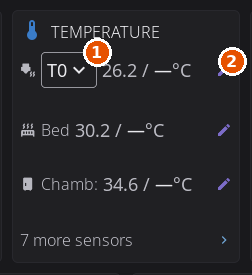
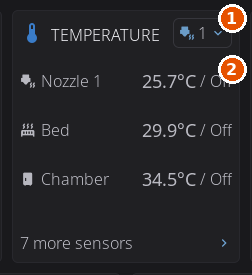
docs: U1 update_manager wording matches the installer; refresh the rc.3 tool-picker screenshots
(cherry picked from commit ab5f8034d12c6981d6fc4e4235dd11f96e77cc35)

diff --git a/docs/devel/printers/SNAPMAKER_U1_SUPPORT.md b/docs/devel/printers/SNAPMAKER_U1_SUPPORT.md
@@ -419,7 +419,7 @@ These are resolution-specific issues, not Snapmaker-specific. Any 480x320 device
 - **Auto-start requires `/oem/.debug`** -- The overlay filesystem is wiped on boot unless `/oem/.debug` exists. This flag must be created once during installation to persist the boot-launcher hook (see [How HelixScreen takes over the display](#how-helixscreen-takes-over-the-display)).
 - **WiFi management** -- Stopping `unisrv` (stock UI) does not affect WiFi — the U1 uses standard `wpa_supplicant` managed by the OS. HelixScreen has its own WiFi manager with `wpa_supplicant` support.
 - **Remote screen ("gui" webcam)** -- Wired up via the U1 platform hook (`assets/config/platform/hooks-snapmaker-u1.sh`): `start_remote_screen` launches the firmware's `fb-http` tool on every HelixScreen start (so it survives the overlay boot-glob trap for free — the hook already runs on every boot), gated on the PAXX `web remote_screen` toggle. **The working path is fbdev + the in-app fb0 mailbox mirror.** Every shipping `fb-http` (on-device build, mainline `paxx12/screen-apps`, and the exact commit the Extended-Firmware submodule pins) reads `/dev/fb0` and exposes only `--port/--bind/--fb/--touch/--html-dir`; **no `fb-http` with a DRM backend exists in any public/shipping source** (verified 2026-07-09). HelixScreen renders into its own DRM dumb buffer and never touches `/dev/fb0`, so on its own the fbdev daemon would serve a stale frame — the hook therefore exports `HELIX_REMOTE_SCREEN_FB0=/dev/fb0` on the fbdev path, and HelixScreen mirrors each rendered frame into `/dev/fb0` (`RemoteScreenManager`/`Fb0MailboxSink`, tapped from the flush hook), so `fb-http`'s snapshot is the live UI. Hardware-verified 2026-07-09: fb0 is decoupled from the DRM scanout (writing to it does not disturb the panel), BGRA maps straight through (plain memcpy), and the served snapshot matched what was written. The hook still **probes** the tool (`_remote_screen_backend_args`) and would prefer a `--backend drm` capture path *if* a DRM-capable `fb-http` ever ships (no mirror needed then) — but that is dormant/forward-looking today. nginx `/screen/` route (`/etc/nginx/fluidd.d/remote-screen.conf`) and the `[webcam gui]` Moonraker slot are provided by the firmware — but the `[webcam gui]` section ships **commented out** in `extended/moonraker/04_remote_screen.cfg`. Setting `web remote_screen` in `extended2.cfg` alone only gates fb-http startup; the firmware-config web UI toggle (/usr/local/share/firmware-config/functions/12_settings_remote_screen.yaml) is what uncomments `[webcam gui]`, sets `enabled: true`, and restarts `S99fb-http` (= HelixScreen, via the hijacked delegate) plus Moonraker. Enabling by hand requires replicating all of that (`extended-config.py add/uncomment/update` + both restarts).
-- **Two benign Moonraker warnings on buildroot** -- After install, Mainsail/Fluidd surface *"Unable to find DBus PolKit Interface"* (Moonraker's always-loaded `machine` component on a no-PolKit OS) and *"Unable to initialize System Update Provider for distribution: buildroot"* (Moonraker's `update_manager` initializes a system/OS package provider by default, which can't detect apt/PackageKit on buildroot). The PolKit one is not ours — it's inherent to Moonraker on buildroot and re-surfaces because our installer restarts Moonraker. The system-update one is triggered by us adding `[update_manager helixscreen]` (loading the component pulls in the default system provider); it can be silenced with a top-level `[update_manager]` / `enable_system_updates: False`, which doesn't affect HelixScreen's own one-click updater. Both are harmless. Same condition applies to K1/K2 (also buildroot).
+- **Two benign Moonraker warnings on buildroot** -- After install, Mainsail/Fluidd surface *"Unable to find DBus PolKit Interface"* (Moonraker's always-loaded `machine` component on a no-PolKit OS) and *"Unable to initialize System Update Provider for distribution: buildroot"* (Moonraker's `update_manager` initializes a system/OS package provider by default, which can't detect apt/PackageKit on buildroot). The PolKit one is not ours — it's inherent to Moonraker on buildroot and re-surfaces because our installer restarts Moonraker. The system-update one appears whenever Moonraker loads the `update_manager` component without `enable_system_updates: False`. Stock U1 Moonraker loads no `update_manager` at all (`/machine/update/status` returns 404), so nothing triggers it until the installer runs. The U1's Moonraker still ships the old zip updater module (no `asset_name` support, #993), so `configure_moonraker_updates` never writes `[update_manager helixscreen]` there: it removes a stale one if present, then `disable_system_updates_on_buildroot` adds a bare `[update_manager]` with `enable_system_updates: False` (stock: creates the section; where one exists, merges the key into it; a PAXX rig ends up with exactly that and no helixscreen section). In-app updates are HelixScreen's own updater. Both are harmless. Same condition applies to K1/K2 (also buildroot).
 
 ## Future Work
 

diff --git a/docs/user/guide/install-u1.md b/docs/user/guide/install-u1.md
@@ -166,7 +166,7 @@ Versions of HelixScreen before 1.0.4 switched off the stock screen on stock firm
 
 - **Any firmware update brings the stock screen back.** Run the installer with `--update` afterwards, as in [Upgrading the printer's firmware](#upgrading-the-printers-firmware-with-helixscreen-installed).
 - **Seeing the screen in Mainsail or Fluidd.** On PAXX firmware, the built-in "gui" webcam shows the live HelixScreen screen, and you can tap it to control the printer. Turn on **Remote Screen** in the firmware settings web page at `http://<printer-ip>/firmware-config/`. Editing the config file by hand is not enough. Setup and troubleshooting: [Supported Printers: Snapmaker U1](supported-printers.md#snapmaker-u1-snapswap).
-- **Two Moonraker warnings you may see.** Mainsail and Fluidd can show "Unable to find DBus PolKit Interface" and "Unable to initialize System Update Provider for distribution: buildroot". Both come from Moonraker looking for an operating-system package manager, which the U1's firmware does not have. PAXX firmware already turns that check off (`enable_system_updates: False` in the `[update_manager]` section of `moonraker.conf`), so they do not appear there. On stock firmware the installer turns the check off, which normally clears them. If they still appear, they are harmless: they do not affect HelixScreen or printing.
+- **Two Moonraker warnings you may see.** Mainsail and Fluidd can show "Unable to find DBus PolKit Interface" and "Unable to initialize System Update Provider for distribution: buildroot". Both come from Moonraker looking for an operating-system package manager, which the U1's firmware does not have. PAXX firmware already turns that check off (`enable_system_updates: False` in the `[update_manager]` section of `moonraker.conf`), so they do not appear there. Stock firmware's Moonraker has no `[update_manager]` section at all, and the installer adds one containing only `enable_system_updates: False`, so the warnings should not appear there either. The installer does not add a `[update_manager helixscreen]` section on the U1, because its Moonraker is too old to update HelixScreen safely; update from the screen instead (**Settings > Updates**). If the warnings still appear, they are harmless: they do not affect HelixScreen or printing.
 - **Flow calibration** (Snapmaker's "dynamic flow calibration") is a pre-print option on the screen. To run it for prints started from the slicer, see [Snapmaker U1: flow calibration](printing.md#snapmaker-u1-flow-calibration).
 
 ## See also

diff --git a/docs/user/guide/temperature.md b/docs/user/guide/temperature.md
@@ -44,7 +44,7 @@ On a single-nozzle printer the row simply says **Nozzle** and the header has no 
 
 ![The Temperature card on a multi-head printer](../../images/user/controls-nozzle-chooser.png)
 
-1. The tool button, which opens the tool picker.
+1. The tool chip in the card header, which opens the tool picker.
 2. The nozzle row for the tool the card is aimed at.
 
 ---
